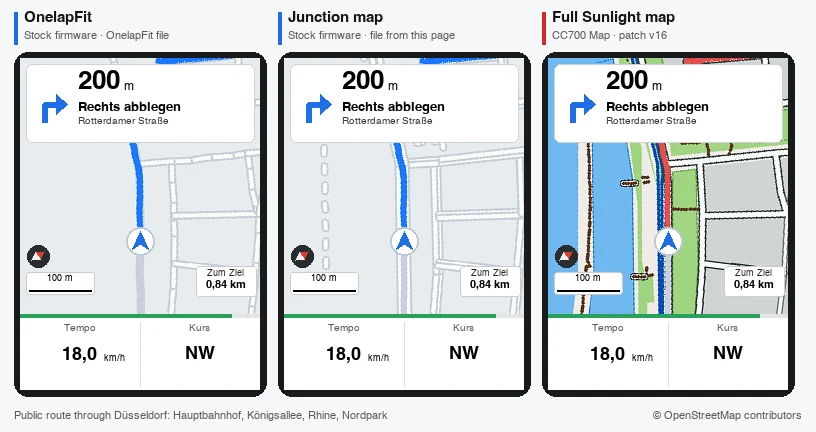
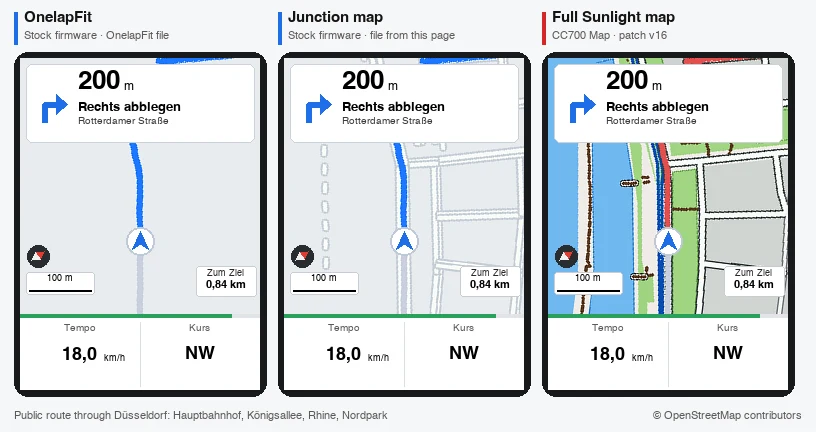
README animation: OnelapFit panel shows sparse junction forks
The OnelapFit panel now shows what the stock firmware shows with an OnelapFit file: forks from junctions on
the route along the side roads, at about one junction in three.

Changed region(s): [[0.1838, 0.331, 0.3064, 0.4213], [0.1838, 0.4514, 0.337, 0.5116], [0.2145, 0.6019, 0.2757, 0.6319]]

diff --git a/README.md b/README.md
@@ -11,7 +11,8 @@ Route: Düsseldorf Hauptbahnhof, Königsallee, old town, Rhine promenade, Rheinp
 7.1 km, one frame every 50 m. The maps come from the drawing code of the patch (`map.c`, the stock drawing is
 its style 0), run on a PC with the device rules: heading up, the rider in the lower third, about 1.6 m per pixel.
 
-- **OnelapFit:** a route file with the rules of a real OnelapFit server file (road segments of about 26 m).
+- **OnelapFit:** junction hints as the stock firmware shows them with an OnelapFit file: short forks from
+  junctions on the route along the side roads, untidy, and at most junctions none.
 - **Junction map:** the stock firmware with a route file from this page.
 - **Full Sunlight map:** patch v16 with a route file from this page: areas with outlines, road classes,
   separate carriageways, trams, cycle tracks, park paths, bridges, signals, street names.
